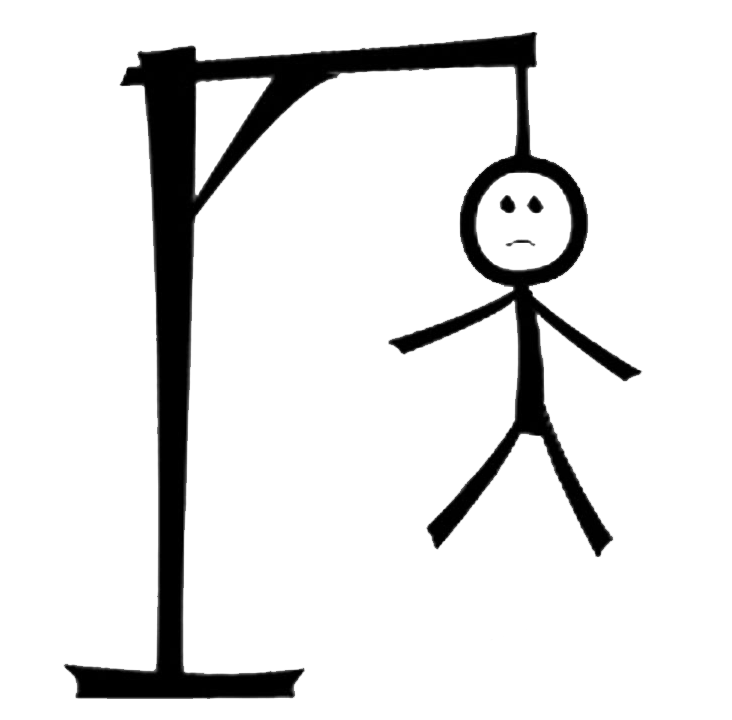
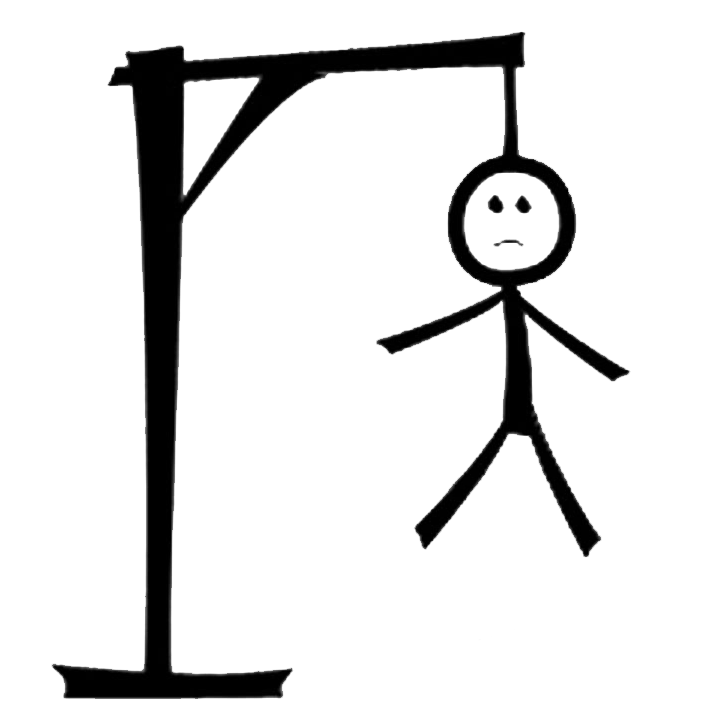
create styles

diff --git a/src/components/Hangman/Hangman.css b/src/components/Hangman/Hangman.css
@@ -2,11 +2,16 @@
   width: 1rem;
   height: 1rem;
   border-bottom: 1px solid var(--rtc-black);
-  font-size: 30px;
-  padding-bottom: 0.5rem;
+  font-size: 15px;
+  padding: var(--rtc-s-spacing) 0;
   display: flex;
   align-items: center;
   justify-content: center;
+}
+
+.tries {
+  margin-top: var(--rtc-s-spacing);
+  font-size: 11px;
 }
 
 .hintContainer {
@@ -15,10 +20,11 @@
   justify-content: center;
   gap: 0.5rem;
   height: 3rem;
+  margin: var(--rtc-s-spacing);
 }
 
 .hangmanIcon {
-  width: 10rem;
+  width: 8rem;
 }
 
 .keyButton,
@@ -38,7 +44,7 @@
   display: flex;
   flex-direction: column;
   align-items: center;
-  padding: var(--rtc-m-spacing) 0;
+  padding: var(--rtc-xs-spacing) 0;
 }
 
 .correctLetter {
@@ -48,4 +54,18 @@
 .wrongLetter {
   background-color: var(--rtc-red);
   color: var(--rtc-black);
+}
+
+.HangmanSection {
+  height: 95%;
+  width: 16rem;
+  border-radius: 25px;
+  background-color: var(--rtc-blur-white);
+  padding: var(--rtc-s-spacing);
+}
+
+.HangmanSection > h2 {
+  text-decoration: underline;
+  font-size: 15px;
+  margin-bottom: var(--rtc-s-spacing);
 }

diff --git a/src/pages/Tictactoe/CreateTictactoe.css b/src/pages/Tictactoe/CreateTictactoe.css
@@ -2,8 +2,8 @@
   display: flex;
   align-items: center;
   justify-content: center;
-  width: 5rem;
-  height: 5rem;
+  width: 4rem;
+  height: 4rem;
   border: 1px solid black;
 }
 
@@ -16,10 +16,16 @@
   display: flex;
 }
 
+.h4Container {
+  display: flex;
+  gap: var(--rtc-s-spacing);
+}
+
 .turns {
   padding-bottom: var(--rtc-m-spacing);
   height: 8rem;
   width: 100%;
+  font-size: 10px;
   display: flex;
   flex-direction: column;
   align-items: center;
@@ -43,21 +49,23 @@
 }
 
 .symbols {
-  width: 2.5rem;
+  width: 2rem;
 }
 
 .cell > img {
-  width: 4rem;
+  width: 3rem;
 }
 
 .TictacSection {
-  height: fit-content;
+  height: 90%;
+  width: 16rem;
   border-radius: 25px;
   background-color: var(--rtc-blur-white);
-  padding: var(--rtc-xl-spacing);
+  padding: var(--rtc-s-spacing);
 }
 
 .TictacSection > h2 {
   text-decoration: underline;
-  margin-bottom: var(--rtc-l-spacing);
+  font-size: 15px;
+  margin-bottom: var(--rtc-s-spacing);
 }

diff --git a/src/pages/Home/Home.css b/src/pages/Home/Home.css
@@ -7,23 +7,22 @@ section {
 }
 
 .homeSection {
-  justify-content: space-around;
+  gap: var(--rtc-m-spacing);
 }
 
 .card {
   background-color: var(--rtc-blur-white);
   border-radius: 25px;
-  font-size: 10px;
+  font-size: 8px;
   display: flex;
   flex-direction: column;
   align-items: center;
   justify-content: space-evenly;
-  gap: var(--rtc-m-spacing);
+  gap: var(--rtc-xs-spacing);
+  width: 90%;
   height: 8rem;
-  width: 34rem;
   margin: 0 var(--rtc-xs-spacing);
   padding: 0.5rem;
-  padding-bottom: 8rem;
   border: 2px solid var(--rtc-blur-white);
 }
 
@@ -35,6 +34,7 @@ section {
   display: flex;
   align-items: center;
   gap: var(--rtc-l-spacing);
+  width: 90%;
 }
 
 .gameTitles {
@@ -43,5 +43,11 @@ section {
 }
 
 .gameImage {
-  width: 4rem;
+  width: 3rem;
+}
+
+@media screen and (min-width: 1500px) {
+  .homeSection {
+    justify-content: space-around;
+  }
 }

diff --git a/style.css b/style.css
@@ -41,29 +41,30 @@
 #app {
   display: flex;
   flex-direction: column;
-  gap: var(--rtc-s-spacing);
   background-image: url(/assets/Background-landscape.webp);
   background-position: center;
   background-repeat: no-repeat;
   background-size: cover;
   height: 100svh;
+  width: 100svw;
 }
 
 .articleContainer {
-  min-height: 72svh;
+  padding-top: var(--rtc-m-spacing);
+  display: flex;
+  justify-content: center;
+  min-height: 70svh;
   height: max-content;
 }
 
 @media screen and (min-width: 541px) {
   .articleContainer {
     min-height: 75svh;
-    height: max-content;
   }
 }
 
 @media screen and (min-width: 1541px) {
   .articleContainer {
     min-height: 81svh;
-    height: max-content;
   }
 }

diff --git a/src/components/Hangman/Hangman.js b/src/components/Hangman/Hangman.js
@@ -10,12 +10,14 @@ import { CreateHomeButton } from '../CreateHomeButton/CreateHomeButton';
 export const Hangman = (tries) => {
   const randomWord = GetRandomWord();
   const Hangman = document.createElement('section');
+  Hangman.className = 'HangmanSection';
   const title$$ = document.createElement('h2');
   title$$.textContent = homeCards[1].name;
   const image$$ = document.createElement('img');
   image$$.className = 'hangmanIcon';
   image$$.src = './assets/image6.png';
   const tryiesElement = document.createElement('h3');
+  tryiesElement.className = 'tries';
   tryiesElement.textContent = `${tries} tries remaining!`;
   Hangman.appendChild(title$$);
   Hangman.appendChild(image$$);

diff --git a/src/components/CreateHomeButton/CreateHomeButton.css b/src/components/CreateHomeButton/CreateHomeButton.css
@@ -1,10 +1,6 @@
-/*.button:hover {
-  background-color: var(--rtc-black);
-  color: var(--rtc-yellow);
-}*/
 .button {
-  height: 2rem;
-  width: 9rem;
+  height: 0.5rem;
+  width: 7.5rem;
   background-image: url(/assets/button.png);
   background-position: center;
   background-repeat: no-repeat;
@@ -18,8 +14,7 @@
   background-color: transparent;
   border: 0;
   font-family: 'Press Start 2P', cursive;
-  font-size: 0.6rem;
-  margin-top: 0.3rem;
+  font-size: 0.4rem;
   cursor: pointer;
 }
 
@@ -28,6 +23,6 @@
 }
 
 .button:active {
-  height: 1.9rem;
-  width: 8.5rem;
+  height: 0.4rem;
+  width: 7rem;
 }

diff --git a/src/components/WinnerModal/WinnerModal.css b/src/components/WinnerModal/WinnerModal.css
@@ -1,25 +1,21 @@
 .modal {
   position: absolute;
   z-index: 1;
-  background-color: rgba(0, 0, 0, 0.9);
+  background-color: black;
   color: var(--rtc-pink);
-  width: 90%;
+  width: 95%;
   height: 10rem;
   border-radius: 25px;
-
+  margin-top: var(--rtc-xl-spacing);
   display: flex;
   align-items: center;
   justify-content: center;
+  font-size: 8px;
+  text-align: center;
 }
 
 .hangmanModal {
   flex-direction: column;
-}
-
-article {
-  display: flex;
-  align-items: center;
-  justify-content: center;
 }
 
 .word {

diff --git a/src/components/SimonSays/SimonSays.css b/src/components/SimonSays/SimonSays.css
@@ -1,8 +1,17 @@
 .simonContainer {
   height: 100%;
+  width: 16rem;
+  border-radius: 25px;
   display: flex;
   align-items: center;
   justify-content: space-around;
+  background-color: var(--rtc-blur-white);
+}
+
+.simonContainer > h2 {
+  text-decoration: underline;
+  font-size: 15px;
+  margin-bottom: var(--rtc-s-spacing);
 }
 
 .simonTable {
@@ -21,4 +30,10 @@
 
 .colorButton:hover {
   width: 90%;
+}
+
+.simonContainer > h3 {
+  font-size: 10px;
+  margin: var(--rtc-s-spacing);
+  text-align: center;
 }

diff --git a/src/components/Footer/Footer.css b/src/components/Footer/Footer.css
@@ -4,18 +4,18 @@ footer {
   align-items: center;
   justify-content: space-evenly;
   background-color: var(--rtc-blur-white);
-  gap: var(--rtc-m-spacing);
-  padding: var(--rtc-m-spacing);
-  height: 13svh;
+  gap: var(--rtc-s-spacing);
+  padding: var(--rtc-s-spacing);
+  height: 10svh;
   width: 100svw;
   bottom: 0;
   position: fixed;
-  font-size: 10px;
+  font-size: 7px;
 }
 
 .mediaImages {
   border-radius: 100%;
-  width: 2rem;
+  width: 1.5rem;
 }
 
 footer > ul {

diff --git a/src/components/Header/Header.css b/src/components/Header/Header.css
@@ -5,4 +5,5 @@ header {
   height: 5rem;
   background-color: var(--rtc-blur-white);
   color: var(--rtc-black);
+  font-size: 0.6rem;
 }
